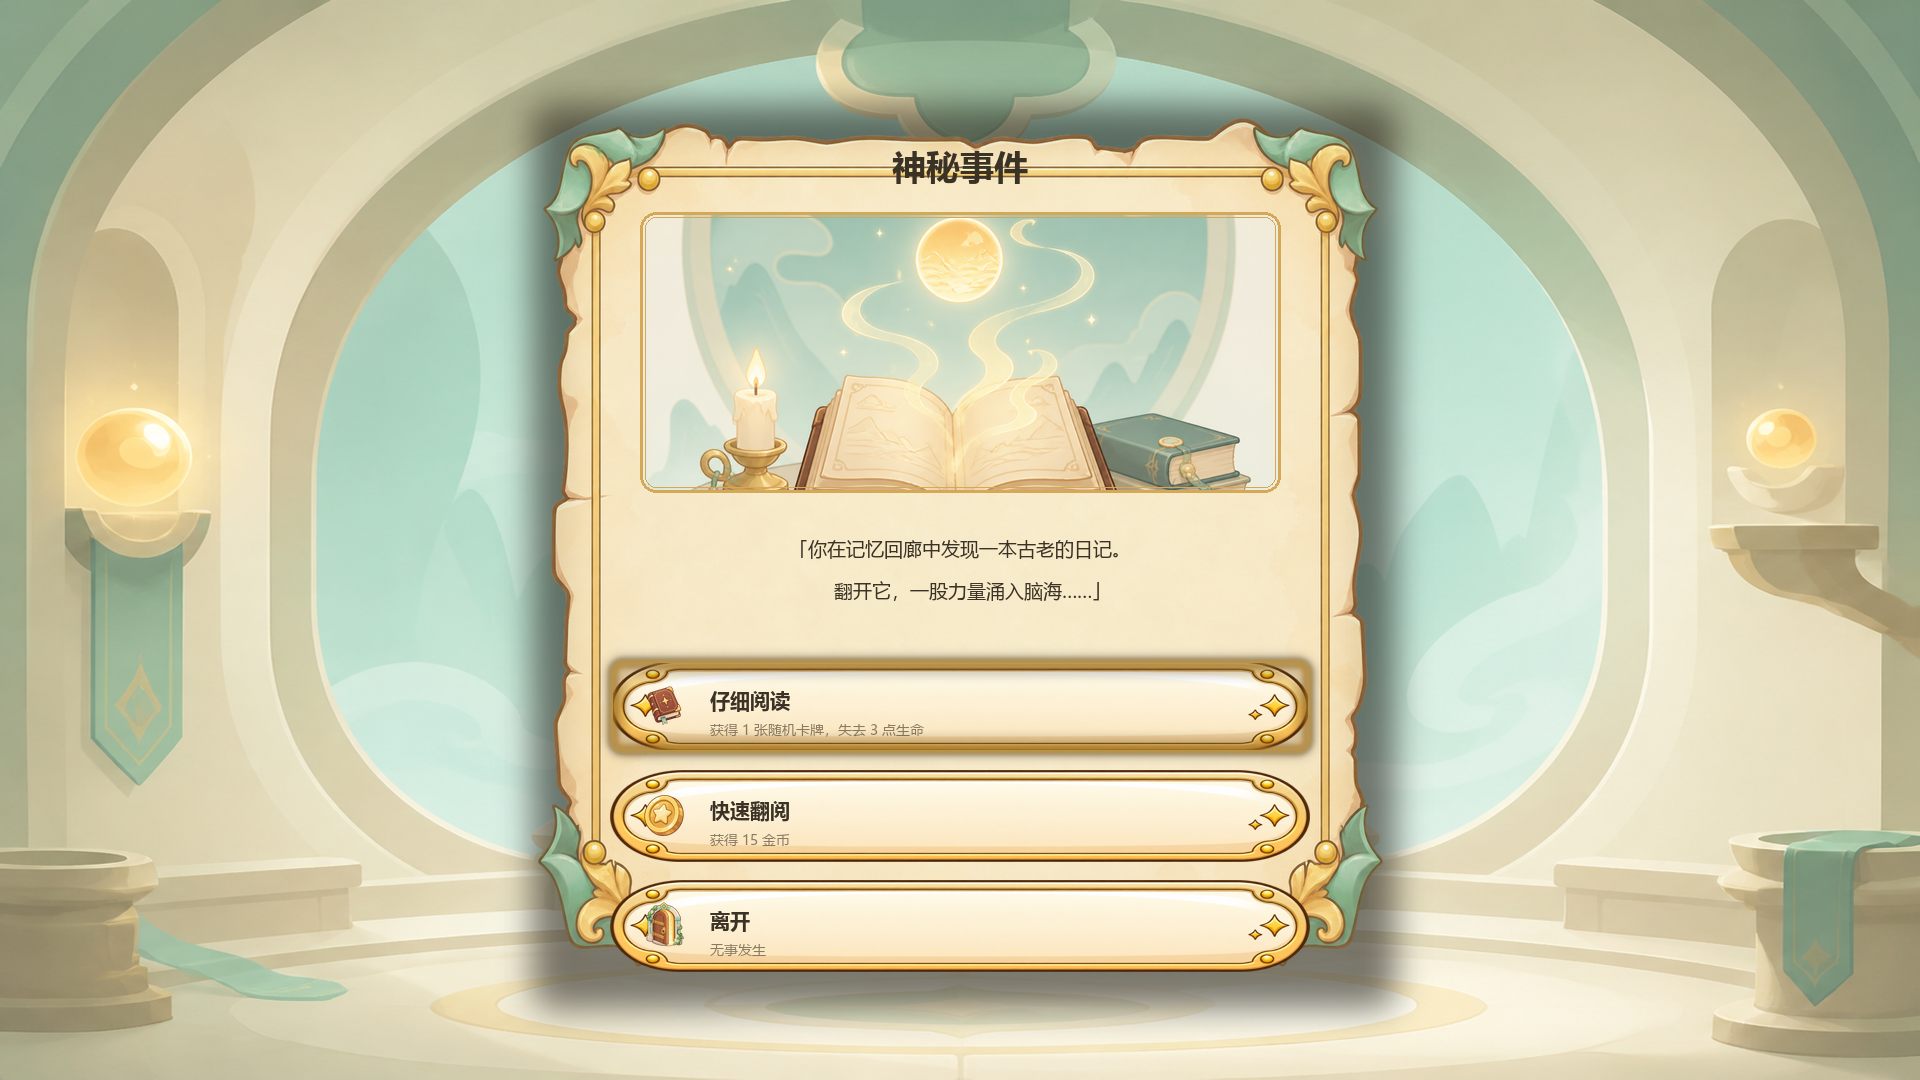
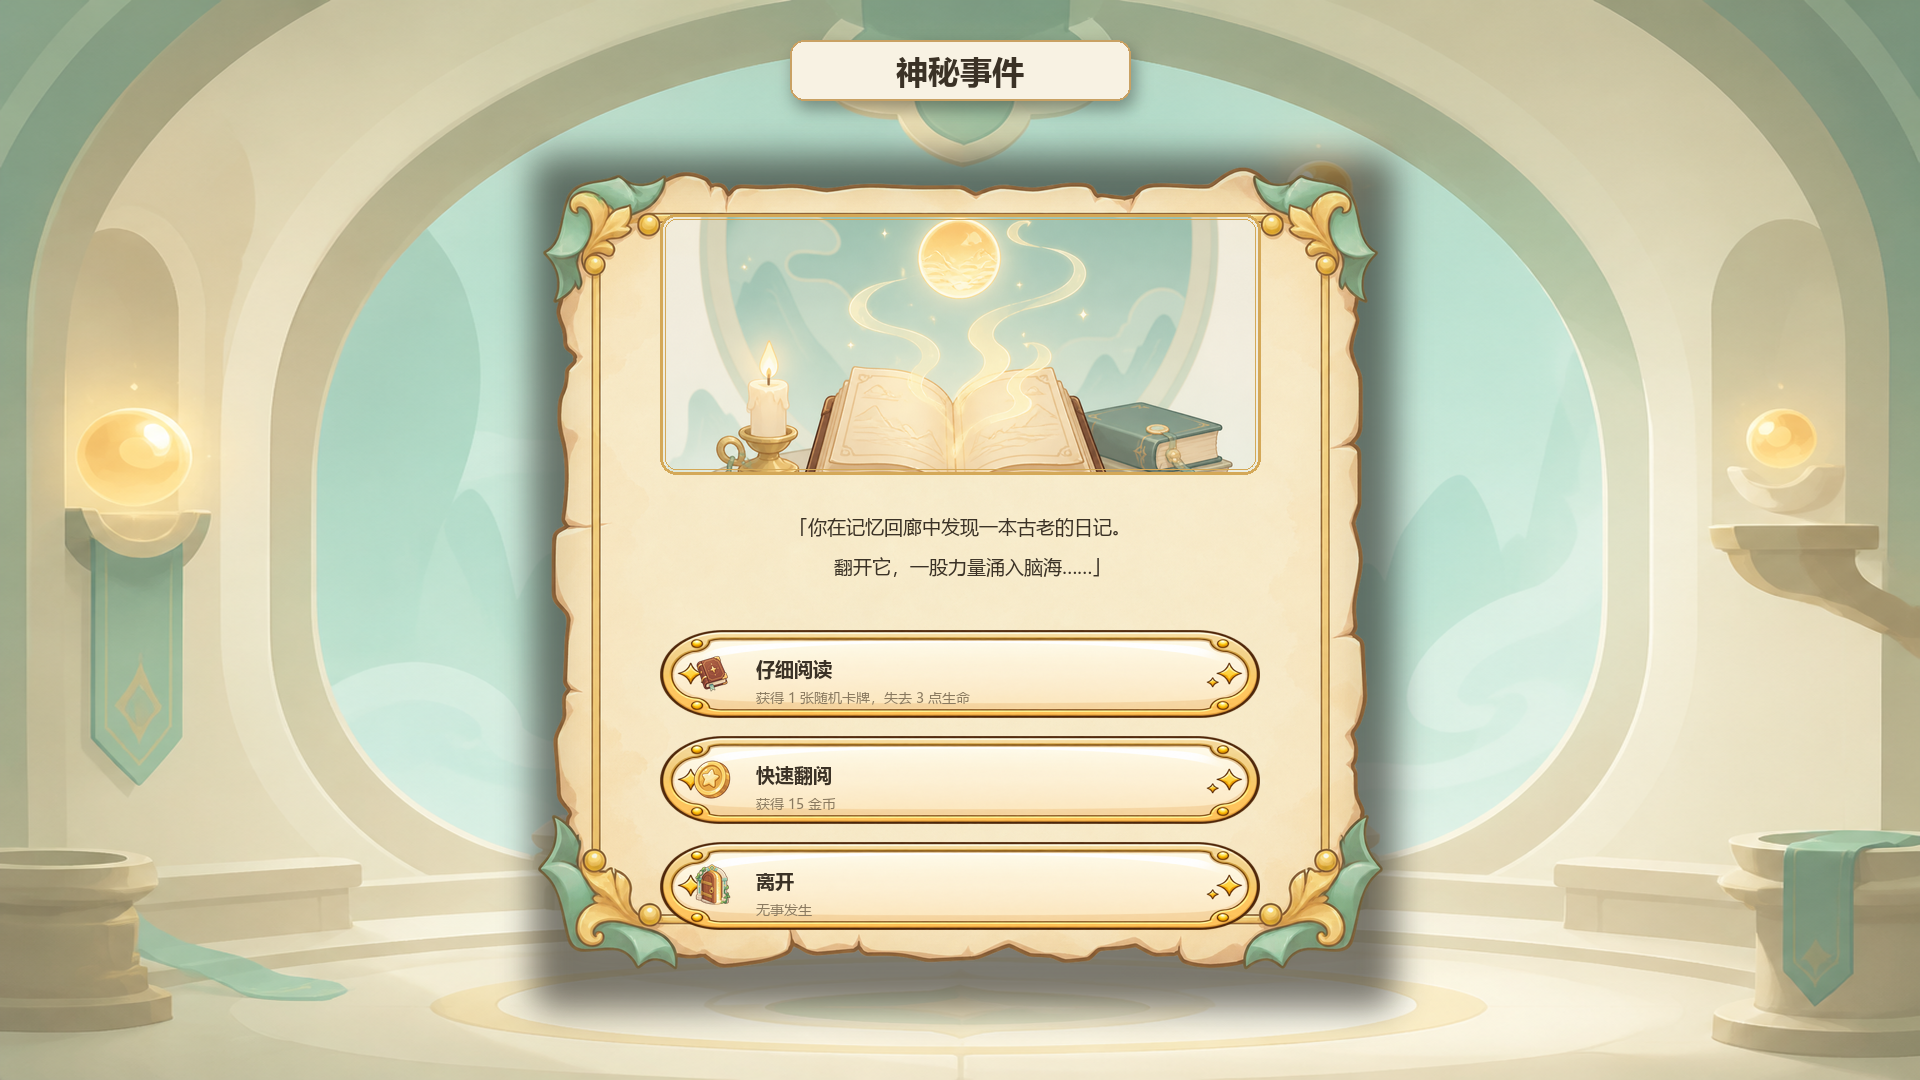
art: S09 r2 修三处用户反馈——面板溢出/旧按钮残影/标题压金框线（待拍板）——用户评 r1 三问题，vision 像素复查坐实后重排：①「panel 包含不下内容」：r1 选项条两端顶页金框（距仅 14px）、四角叶饰压条端、末条距页底 10-15px——标题移出页外后页下移为 y150-1000，插图窗 640×280→600×260，选项条 700×92→600×88（y 630/736/842，条端距页边 120）；实测内容距金框 65px、叶饰距条端 76px 不再压、末条底距页底 25-30px；②「按钮底部有旧按钮未移除」：病根=hover 金环沿 btn 素材外层方角

Changed region(s): [[0.25, 0.0306, 0.75, 0.9167], [0.2812, 0.5194, 0.3125, 0.5806], [0.2812, 0.4583, 0.3125, 0.4889]]

diff --git a/.agents/skills/mh-art/scripts/ui_mockup.py b/.agents/skills/mh-art/scripts/ui_mockup.py
@@ -916,18 +916,26 @@ def s08_campfire():
 
 
 def s09_event():
-    """S09 事件（09 §7.4）：bg_event 场景 + 居中悬浮羊皮纸事件页（事件名 +
-    插图窗 ill_event_diary + 叙事文本 + 三选项 btn 九宫格条），四周背景可见。"""
+    """S09 事件（09 §7.4）：bg_event 场景 + 背景顶部标题牌匾 + 居中悬浮羊皮纸
+    事件页（插图窗 ill_event_diary + 叙事文本 + 三选项 btn 九宫格条），四周背景
+    可见。r2：内容距页边≥60px 避开磨损边/金框/四角叶饰（r1 内容贴边压饰带）、
+    标题移页外（r1 压页内金框线）、去 hover 环（沿方角外框画、露胶囊外成"旧框"）。"""
     base = asset("bg_event.png") or Image.new("RGBA", (W, H), CREAM)
     img = base.copy()
     d = ImageDraw.Draw(img)
+    # 标题牌匾：背景顶部（页外，09 §7.4 原口径；神殿拱顶下该区域干净）
+    plate = [W // 2 - 170, 40, W // 2 + 170, 100]
+    drop_shadow(img, plate, r=14, alpha=90, blur=8)
+    panel(img, plate, 14, fill=BRIGHT, shadow=False)
+    d = ImageDraw.Draw(img)
+    text(d, (W // 2, 70), "神秘事件", size=32, anchor="mm")
     # 悬浮羊皮纸事件页（S04 同款：AI 整版底图等比缩放 + 轻叠程序纸材统一质感）
-    page = [W // 2 - 430, 100, W // 2 + 430, 1000]
+    page = [W // 2 - 430, 150, W // 2 + 430, 1000]
     drop_shadow(img, page, r=18, alpha=125, blur=16)
-    plate = asset("panel_map_sheet.png")
+    sheet_plate = asset("panel_map_sheet.png")
     pw, ph = page[2] - page[0], page[3] - page[1]
-    if plate is not None:
-        sheet = plate.resize((pw, ph), Image.LANCZOS)
+    if sheet_plate is not None:
+        sheet = sheet_plate.resize((pw, ph), Image.LANCZOS)
         blended = Image.blend(sheet, _paper_material(pw, ph), 0.2)
         blended.putalpha(sheet.getchannel("A"))
         img.paste(blended, (page[0], page[1]), blended)
@@ -935,9 +943,8 @@ def s09_event():
     else:
         parchment_panel(img, page, r=18)
     d = ImageDraw.Draw(img)
-    text(d, (W // 2, 165), "神秘事件", size=34, anchor="mm")
-    # 插图窗（640×280）：ill_event_diary cover 裁切 + 圆角贴入 + 双线金框
-    wbox = [W // 2 - 320, 212, W // 2 + 320, 492]
+    # 插图窗（600×260，页顶边距 64）：ill_event_diary cover 裁切 + 圆角贴入 + 双线金框
+    wbox = [W // 2 - 300, 214, W // 2 + 300, 474]
     ill = asset("ill_event_diary.png")
     if ill is not None:
         # v_anchor≈0.38 取景上移：源图主体（光缕+记忆宝珠）偏上，正中裁切切宝珠顶
@@ -949,8 +956,8 @@ def s09_event():
     else:   # 插画缺资产回退：亮纸底 + 拱形底纹占位
         panel(img, wbox, 16, fill=BRIGHT, shadow=False)
         d = ImageDraw.Draw(img)
-        d.arc([W // 2 - 130, 232, W // 2 + 130, 392], 180, 360, fill=TEAL, width=4)
-        d.arc([W // 2 - 70, 262, W // 2 + 70, 392], 180, 360, fill=BORDER, width=3)
+        d.arc([W // 2 - 130, 232, W // 2 + 130, 380], 180, 360, fill=TEAL, width=4)
+        d.arc([W // 2 - 70, 260, W // 2 + 70, 380], 180, 360, fill=BORDER, width=3)
         text(d, (W // 2, wbox[3] - 30), "事件插图", size=12, fill=SUB,
              bold=False, anchor="mm")
     rrect(d, wbox, 16, outline=GOLD, width=3)
@@ -959,19 +966,19 @@ def s09_event():
     # 叙事文本
     for i, ln in enumerate(("「你在记忆回廊中发现一本古老的日记。",
                             "　 翻开它，一股力量涌入脑海……」")):
-        text(d, (W // 2, 548 + i * 42), ln, size=19, bold=False, anchor="mm")
-    # 三选项：btn_secondary 九宫格条底 + 真图标 + 标题/描述两行
+        text(d, (W // 2, 526 + i * 40), ln, size=19, bold=False, anchor="mm")
+    # 三选项（600×88，条端距页边 120 避开四角叶饰，末条底距页底 70）：
+    # btn_secondary 九宫格条底 + 真图标 + 标题/描述两行
     options = (("仔细阅读", "获得 1 张随机卡牌，失去 3 点生命", "icon_book.png"),
                ("快速翻阅", "获得 15 金币", "icon_gold.png"),
                ("离开", "无事发生", "icon_door.png"))
     for i, (title, desc, ic) in enumerate(options):
-        y0 = 660 + i * 110
-        box = [W // 2 - 350, y0, W // 2 + 350, y0 + 92]
+        y0 = 630 + i * 106
+        box = [W // 2 - 300, y0, W // 2 + 300, y0 + 88]
         button(img, d, box, "", "secondary", 20)   # 只取九宫格底图，文字自排两行
-        icon(img, ic, box[0] + 54, y0 + 46, 52)
-        text(d, (box[0] + 100, y0 + 26), title, size=20)
-        text(d, (box[0] + 100, y0 + 60), desc, size=14, fill=SUB, bold=False)
-    hover_glow(img, [W // 2 - 350, 660, W // 2 + 350, 752], r=12)   # 首选项悬停态示意
+        icon(img, ic, box[0] + 52, y0 + 44, 48)
+        text(d, (box[0] + 96, y0 + 25), title, size=19)
+        text(d, (box[0] + 96, y0 + 58), desc, size=14, fill=SUB, bold=False)
     return img, "mockup_s09_event.png"
 
 
